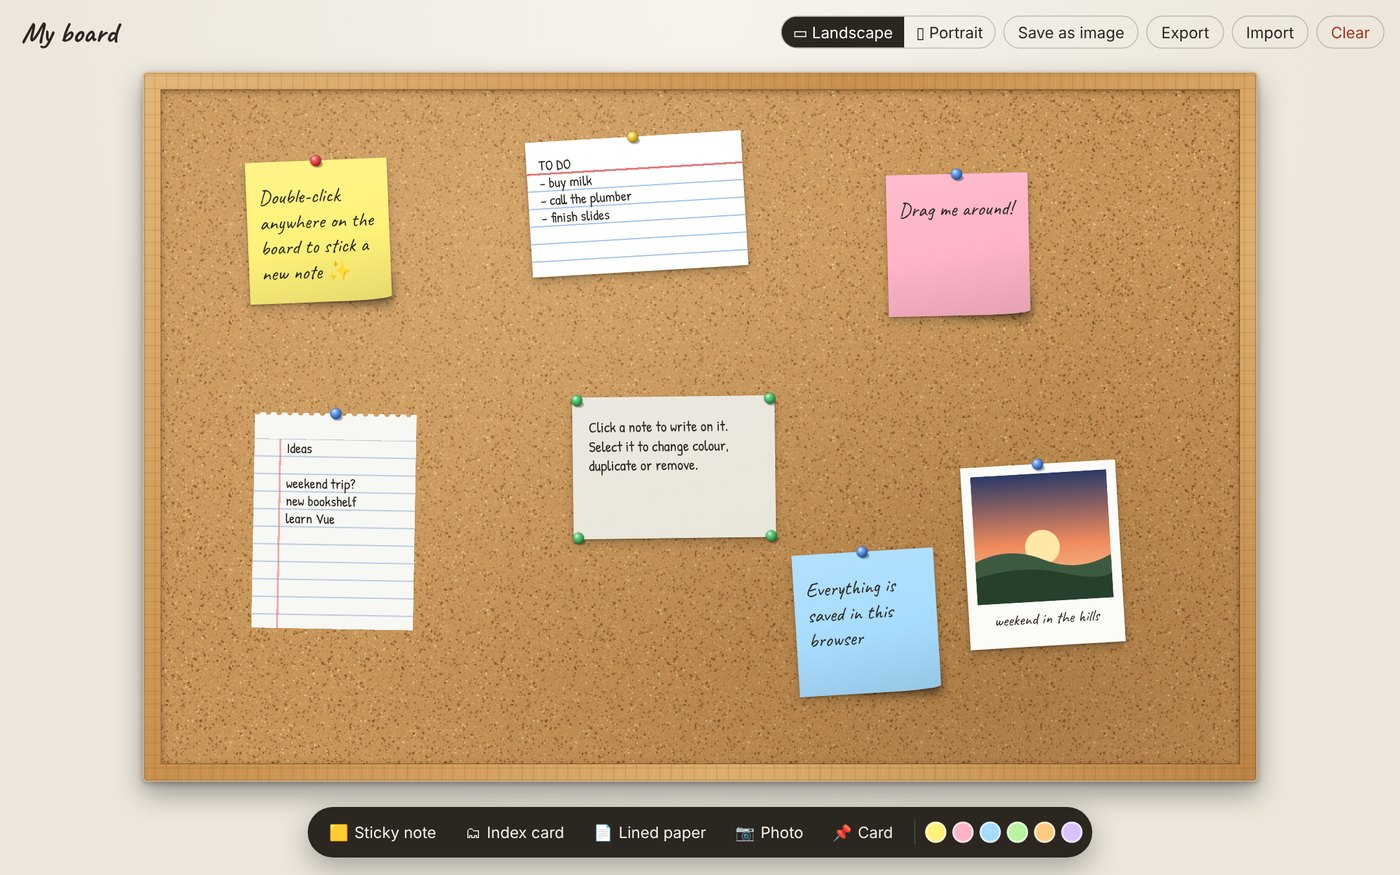
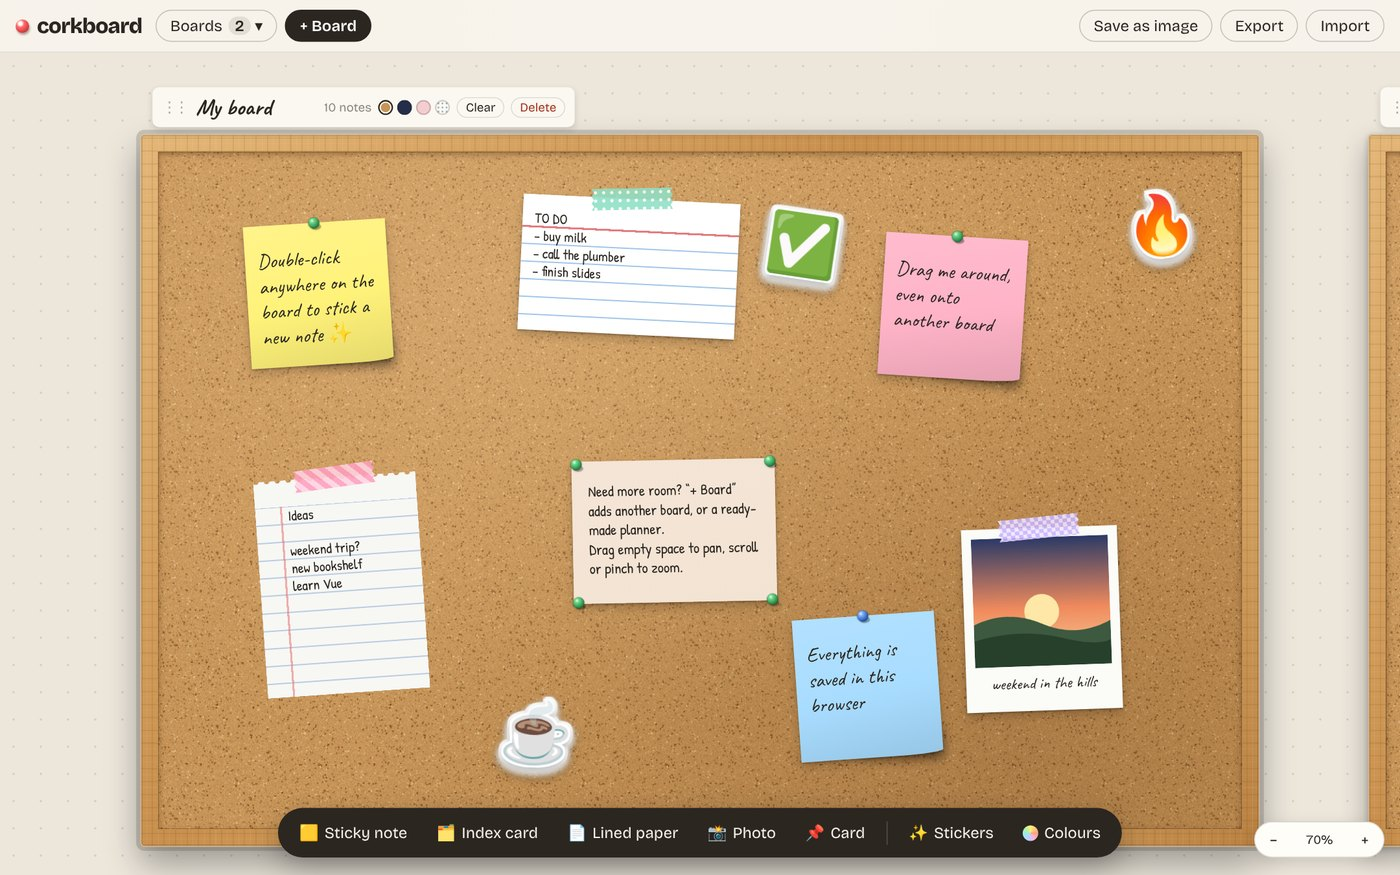
docs: README and roadmap for v1.1

diff --git a/README.md b/README.md
@@ -1,71 +1,96 @@
 # corkboard
 
-**A cork board in your browser.** Pin sticky notes, index cards, lined paper, cards and
-polaroid photos, drag them around, write on them — and everything stays on your device.
+**An endless wall of cork boards in your browser.** Pin sticky notes, index cards, lined paper,
+polaroids, stickers and washi tape, plan your week, run a kanban, build a moodboard.
+No account, no server: everything stays on your device.
 
-![Corkboard](docs/board.jpg)
+![A board with sticky notes, an index card, a polaroid and stickers](docs/board.jpg)
 
-No account, no server, no tracking: the board lives in your browser's IndexedDB.
-Use it as a personal to-do wall, a mood board, a family notice board on a kitchen tablet,
-or a planning wall for a project.
+Made for the way people actually plan: students with exams and group projects,
+office folks juggling tasks and meetings, and anyone who thinks better with paper on a wall.
 
-## What you can pin
+## Boards, as many as you want
 
-| | | |
-|---|---|---|
-| **Sticky note** — 6 colours, curled corner | **Index card** — red header rule, blue lines | **Lined paper** — margin and perforated edge |
-| **Photo** — polaroid frame with your own picture and a caption | **Card** — held by four pins | |
+The workspace has no edges. Add a board for every class, client or side quest, drag boards
+around, zoom out to see everything, and drag a note from one board straight onto another.
 
-Each note gets a slight random tilt and a push-pin, like the real thing.
+![The workspace zoomed out: six boards side by side](docs/workspace.jpg)
 
-## Features
+New boards come blank or from a template:
 
-- **Double-click** anywhere on the cork to stick a new note there, or use the dock at the bottom.
-- **Drag** notes anywhere (mouse or touch); the one you touch comes to the front.
-- **Click** a note to write on it — handwritten fonts (Caveat, Patrick Hand) bundled locally.
-- Selected notes get a small toolbar: **change colour**, **choose photo**, **duplicate**, **remove** — with **Undo**.
-- **Landscape or portrait** board; the board scales to any screen and looks the same everywhere.
-- **Save as image** (PNG of the whole board), **Export / Import** the board as JSON.
-- Photos are downscaled (≤ 640 px JPEG) before saving so the board stays light.
-- Keyboard: `N` new sticky note · `Delete` remove selected · `Ctrl/⌘ + Z` undo remove · `Esc` deselect.
+| Template | What's on it |
+|---|---|
+| 🗓 **Weekly planner** | an index card for each day + the week's one big goal |
+| ✅ **Kanban** | To do → Doing → Done, on midnight felt |
+| 📚 **Study plan** | exam card, topics checklist, schedule, pomodoro, study buddy photo |
+| 🌈 **Moodboard** | taped polaroids and vibe words on blush linen |
+| 💡 **Brainstorm** | one big question in the middle, a ring of rainbow stickies |
 
-<p align="center"><img src="docs/selected.png" width="320" alt="Selected note with its toolbar"></p>
+![Template picker](docs/templates.jpg)
+
+## On every board
+
+- **Sticky notes** in 12 colours (canary to periwinkle) plus a picker for any colour you like.
+- **Index cards**, **lined paper** with a perforated edge, **cards** held by four pins.
+- **Polaroids** with your own photos (downscaled to stay light) and a handwritten caption.
+- **Stickers**: a sheet of 24 die-cut emoji (✨🔥💯✅📚☕🧠🚀🫶…).
+- **Washi tape** instead of a push-pin: pink stripes, mint dots, sun grid, kraft or lilac check.
+- **Four surfaces** per board: cork, midnight felt, blush linen, dot-grid paper.
+- Boards are **landscape on wide screens and portrait on phones**, picked automatically.
+
+<p align="center">
+  <img src="docs/toolbar.jpg" width="360" alt="A selected sticky note with its colour palette">
+  &nbsp;
+  <img src="docs/mobile.jpg" width="220" alt="corkboard on a phone">
+</p>
+
+## How to use it
+
+| | |
+|---|---|
+| Add a note | double-click the board, or use the dock at the bottom |
+| Write | click a note |
+| Move | drag a note (also onto another board), drag a board by its frame or name tag |
+| Pan / zoom | drag empty space · scroll wheel or pinch · `+` `−` · `0` shows everything |
+| Change a note | select it: colour, tape/pin, duplicate, remove |
+| Undo | the toast's **Undo**, or `Ctrl/⌘ + Z` (notes, cleared boards and deleted boards) |
+| Keys | `N` new sticky · `B` new blank board · `Delete` remove · `Esc` deselect |
+| Keep / share | **Save as image** (PNG of the current board) · **Export / Import** the whole workspace as JSON |
 
 ## Run it
 
 ```bash
 npm install
 npm run dev       # http://localhost:5173
-npm test          # 19 tests
-npm run build     # static site in dist/ (relative paths — host it anywhere)
+npm test          # 34 tests
+npm run build     # static site in dist/ (relative paths, host it anywhere)
 ```
 
 Pushing to `main` runs the tests and deploys to GitHub Pages
-(*Settings → Pages → Source: GitHub Actions*).
+(*Settings → Pages → Source: GitHub Actions*). Workspaces from v1.0 (single board) are migrated automatically.
 
 ## How it's built
 
-Vue 3 (`<script setup>`) · Pinia · TypeScript · Vite · idb-keyval · html-to-image · Fontsource ·
-Vitest + Vue Test Utils + fake-indexeddb
+Vue 3 (`<script setup>`) · Pinia · TypeScript · Vite · idb-keyval · html-to-image ·
+Fontsource (Bricolage Grotesque, Caveat, Patrick Hand) · Vitest + Vue Test Utils + fake-indexeddb
 
 ```
 src/
-├── core/
-│   ├── board.ts      note model, placement (least-overlap spot), z-order, orientation, safe JSON import
-│   ├── storage.ts    IndexedDB persistence
-│   ├── texture.ts    procedural cork texture painted on a canvas
-│   └── image.ts      photo downscaling
-├── stores/board.ts   Pinia store: add / move / select / remove + undo / duplicate
+├── core/                 plain TypeScript, no Vue
+│   ├── board.ts          notes, colours, stickers, tapes, surfaces, safe parsing
+│   ├── workspace.ts      camera (fit, zoom-at-cursor), board placement, hit-testing, file import + v1 migration
+│   ├── templates.ts      planner / kanban / study / moodboard / brainstorm layouts (work in both orientations)
+│   ├── texture.ts        cork, felt, linen and dot-grid surfaces painted on a canvas
+│   └── storage.ts        IndexedDB persistence
+├── stores/workspace.ts   Pinia: boards, notes, cross-board drops, undo
 └── components/
-    ├── Corkboard.vue the framed board, scaling to fit the window
-    ├── NoteItem.vue  one note: drag, edit, per-kind paper styles, toolbar
-    └── PushPin.vue   SVG push-pin
+    ├── Workspace.vue     the endless canvas: pan, wheel/pinch zoom
+    ├── BoardView.vue     one framed board with its name tag
+    ├── NoteItem.vue      one note: drag, edit, paper styles, stickers, tape, toolbar
+    └── PushPin.vue
 ```
 
-The board uses fixed logical coordinates (1600×1000 or 1000×1500) and is scaled with CSS,
-so positions are identical on a phone, a laptop and a TV. The cork, frame, papers and pins
-are drawn with CSS, SVG and canvas — no image assets.
-
+Everything on screen is drawn with CSS, SVG and canvas: no image assets.
 See [ROADMAP.md](ROADMAP.md).
 
 ## License

diff --git a/ROADMAP.md b/ROADMAP.md
@@ -1,20 +1,21 @@
 # Roadmap
 
 ## Next
-- [ ] **Multiple boards** with a board switcher (Home, Work, Trip…).
-- [ ] **Resize** handles for notes and cards.
-- [ ] **String / yarn** between pins to connect related notes (detective-board style).
-- [ ] Checklists on index cards (tap a line to tick it off).
-- [ ] Washi tape as an alternative to pins.
+- [ ] **Checklists**: tap a `☐` line on an index card to tick it.
+- [ ] **Due dates** on notes with a "this week" view across boards.
+- [ ] **Resize** handles for notes and stickers.
+- [ ] **Yarn** between pins to connect related notes (detective-board style).
+- [ ] Board search: find a note by text across every board.
+- [ ] Minimap for big workspaces.
 
 ## Later
 - [ ] Share a read-only board as a single self-contained HTML file.
-- [ ] Optional sync between devices (e.g. a JSON file in a cloud folder).
+- [ ] Optional sync between devices (a JSON file in a cloud folder).
 - [ ] PWA install + offline caching.
-- [ ] Themes: whiteboard, chalkboard, fridge door with magnets.
-- [ ] Accessibility: keyboard moving of notes (arrow keys) and screen-reader labels per note.
+- [ ] More surfaces (whiteboard, chalkboard, fridge door with magnets) and seasonal sticker packs.
+- [ ] Keyboard moving of notes (arrow keys) and richer screen-reader labels.
 
 ## Done
-- [x] Sticky notes, index cards, lined paper, polaroids with photos, four-pin cards
-- [x] Drag, edit, recolour, duplicate, remove with undo, z-order
-- [x] Landscape/portrait boards, IndexedDB autosave, PNG export, JSON import/export
+- [x] v1.1: endless workspace with any number of boards, pan/zoom, drag notes between boards,
+      templates, 12 colours + custom, stickers, washi tape, four surfaces, auto orientation
+- [x] v1.0: sticky notes, index cards, lined paper, polaroids, four-pin cards, undo, PNG/JSON export
